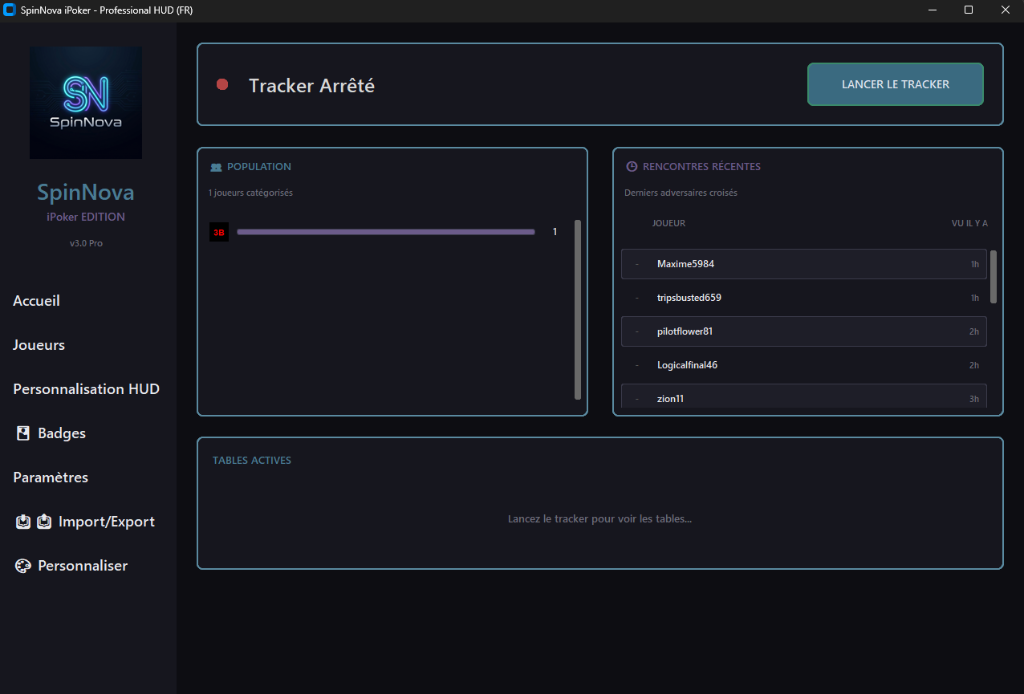
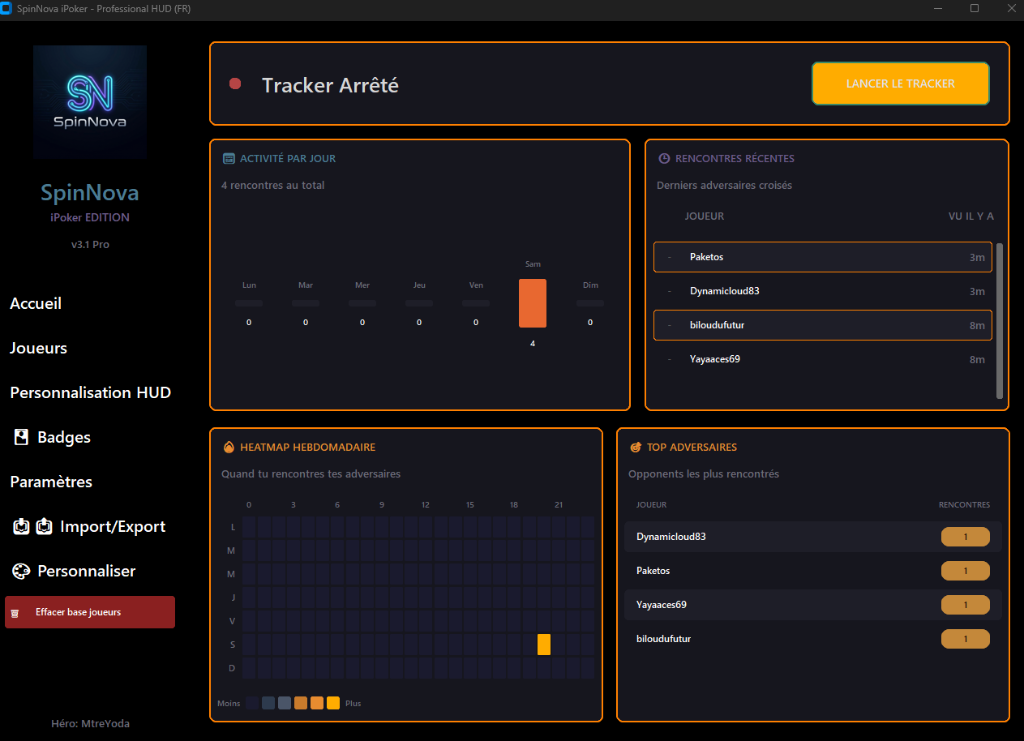
Add files via upload

diff --git a/index.html b/index.html
@@ -167,18 +167,24 @@
         <div class="screen-grid">
             <!-- Accueil -->
             <div class="screen-card glass-panel">
-                <img src="screen_accueil.png" alt="Accueil SpinNova" class="screen-img">
-                <h3>🏠 L'Accueil</h3>
-                <p>Lancez vos tables et surveillez l'activité du réseau en un coup d'œil. Un gros bouton Vert/Rouge.
-                    C'est tout ce que vous avez à gérer.</p>
+                <img src="screen_accueil.png" alt="Dashboard SpinNova v3.1" class="screen-img">
+                <h3>🏠 Dashboard Analytique</h3>
+                <p>Visualisez votre activité par jour, explorez la heatmap (grille 7 jours sur 24 heures), et retrouvez
+                    vos
+                    top adversaires en un coup d'œil. Import d'historiques iPoker inclus.</p>
             </div>
 
             <!-- Joueurs -->
             <div class="screen-card glass-panel">
-                <img src="screen_joueurs.png" alt="Onglet Joueurs SpinNova" class="screen-img">
+                <div style="display: flex; gap: 1rem; flex-wrap: wrap;">
+                    <img src="screen_joueurs.png" alt="Joueurs - Analytics" class="screen-img"
+                        style="flex: 1; min-width: 200px;">
+                    <img src="screen_joueurs_2.png" alt="Joueurs - HUD Complet" class="screen-img"
+                        style="flex: 1; min-width: 200px;">
+                </div>
                 <h3>👥 Onglet Joueurs</h3>
-                <p>Votre Data Room. Retrouvez instantanément n'importe quel adversaire. Filtres & tris avancés pour
-                    gérer des milliers de profils.</p>
+                <p>Analysez chaque adversaire : heatmap des rencontres, activité par jour, et configurez le HUD Complet
+                    off-table avec vos badges personnalisés par position.</p>
             </div>
 
             <!-- HUD Editor -->
